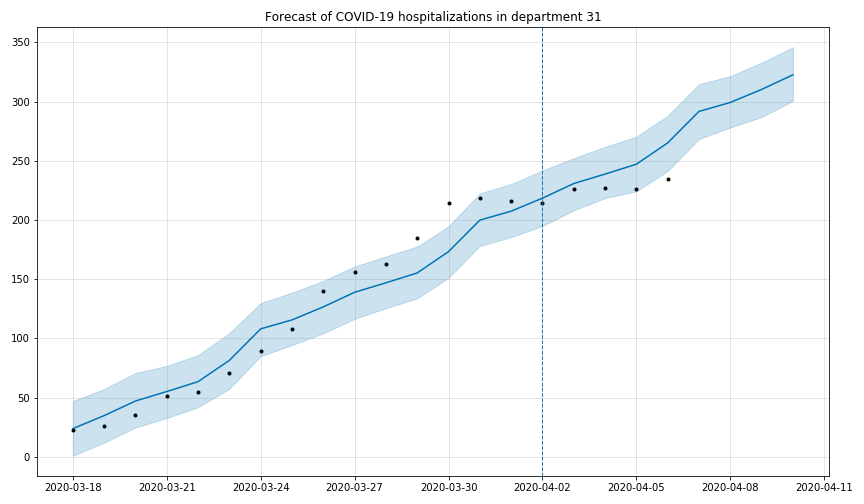
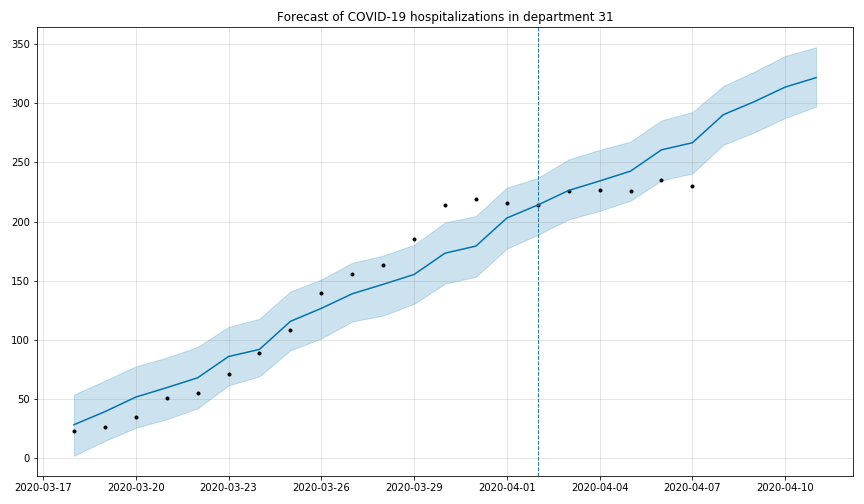
new data 20200407

diff --git a/README.md b/README.md
@@ -1,4 +1,4 @@
-# Forecast of COVID-19 deaths and hospitalizations in France (last update: 06/04/2020)
+# Forecast of COVID-19 deaths and hospitalizations in France (last update: 07/04/2020)
 
 Visualize a forecast of the evolution of the COVID-19 hospitalizations in a given French department + forecast of the total number of deaths
 
